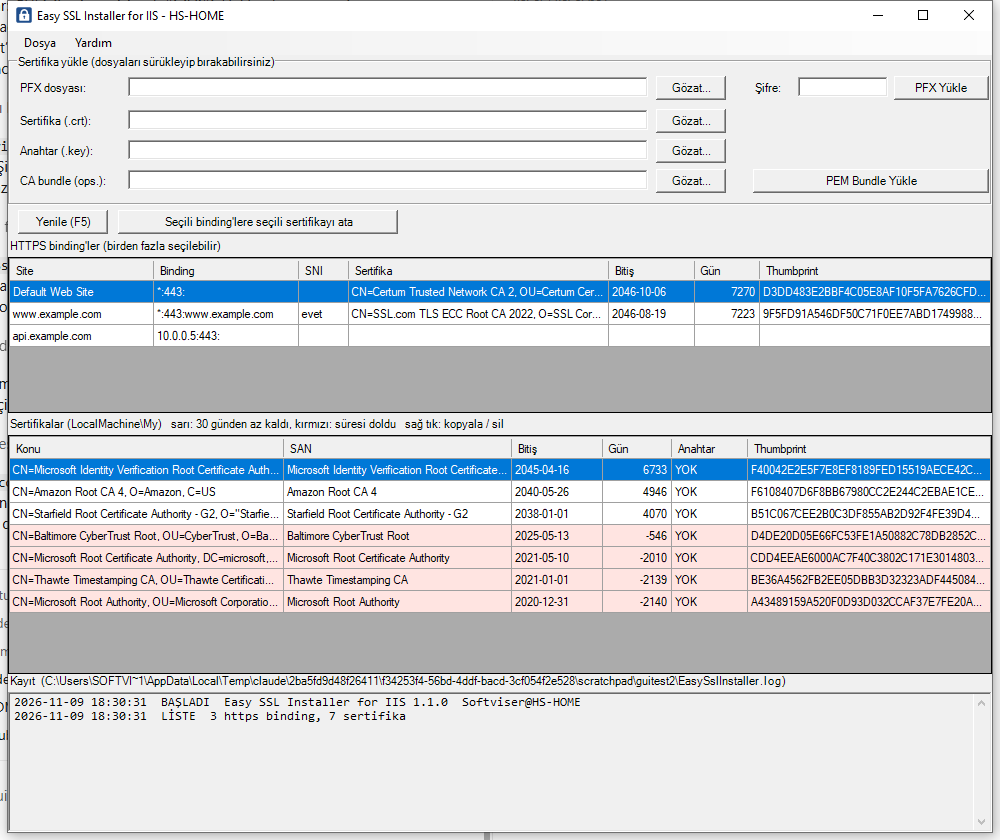
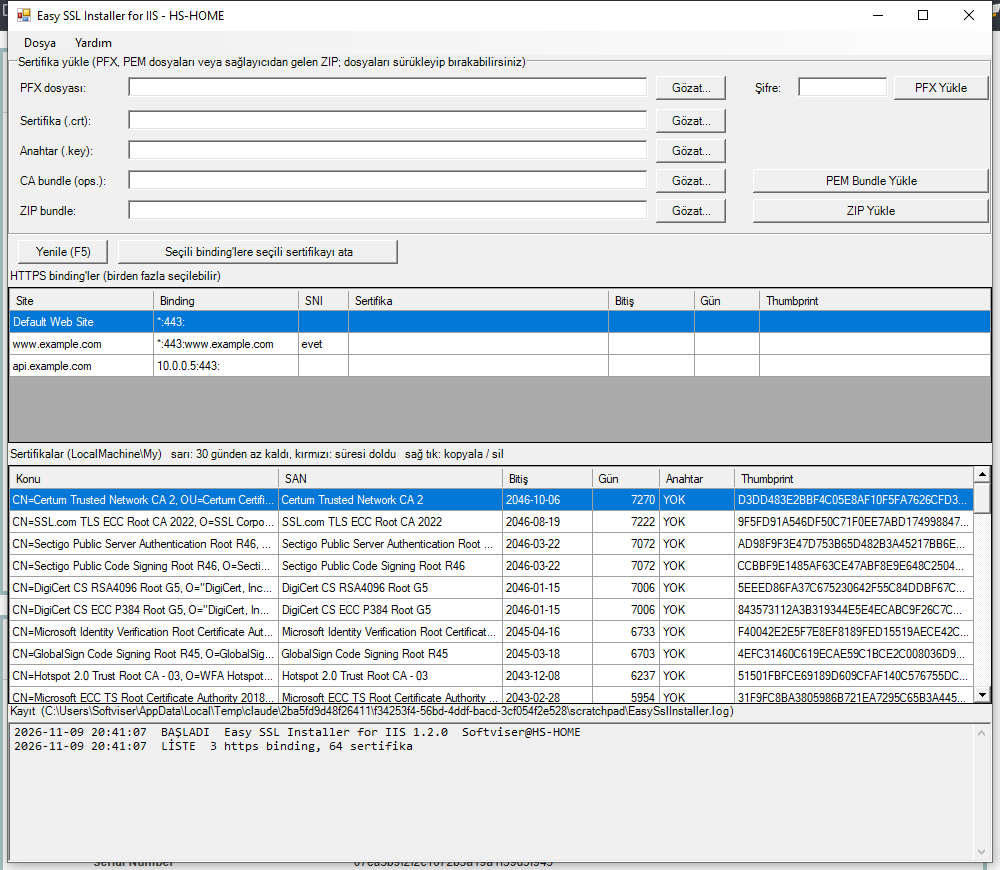
1.2.0: ZIP bundle import and automatic binding assignment
- Import the ZIP a certificate provider sends: uses the PFX inside if present,
  otherwise detects the server certificate, private key and CA files by content.
  Falls back to the key file field when the ZIP carries no key.
- After every import, find bindings matching the new certificate (SAN host
  names, one-level wildcards, or bindings still using an older certificate for
  the same names), list them and assign on one confirmation.
- Load panel gets a ZIP row; About text and README updated.

diff --git a/Host.cs b/Host.cs
@@ -12,8 +12,8 @@ using System.Management.Automation.Runspaces;
 [assembly: AssemblyDescription("Install SSL certificates and update HTTPS bindings on IIS")]
 [assembly: AssemblyCompany("Softviser Yazılım")]
 [assembly: AssemblyCopyright("Copyright (c) 2026 Softviser Yazılım. MIT License.")]
-[assembly: AssemblyVersion("1.1.0.0")]
-[assembly: AssemblyFileVersion("1.1.0.0")]
+[assembly: AssemblyVersion("1.2.0.0")]
+[assembly: AssemblyFileVersion("1.2.0.0")]
 
 static class Program
 {

diff --git a/README.md b/README.md
@@ -15,8 +15,15 @@ self-contained `EasySslInstaller.exe`. Works on any Windows or Windows Server wi
 - Imports a PEM bundle: certificate (.crt) + private key (.key) + optional CA bundle. The conversion to PFX is done
   with Windows' own `certutil`, so OpenSSL is not needed. The CA bundle goes into the Intermediate Certification
   Authorities store.
-- Assigns the selected certificate to one or more selected bindings. For a renewal: select every binding that uses the
-  old certificate, select the new one, assign.
+- Imports the ZIP file a certificate provider sends as is. It picks the PFX inside if there is one (password from the
+  password box), otherwise it tells the server certificate, the private key and the CA files apart by their content
+  (Sectigo/Comodo, GoDaddy, ZeroSSL and Let's Encrypt style layouts). If the ZIP has no key, the key file given in the
+  "Anahtar (.key)" field is used.
+- After every import it looks for bindings that match the new certificate: host names found in the certificate's SAN
+  list (wildcards match one level), or bindings that still use an older certificate issued for the same names. It
+  lists them and, after one confirmation, assigns the new certificate to all of them.
+- Assigns the selected certificate to one or more selected bindings by hand. For a renewal: select every binding that
+  uses the old certificate, select the new one, assign.
 - Right-click a certificate to copy its thumbprint or delete it (refused while a binding still uses it).
 - Logs every action (imports, conversions, CA store additions, binding changes with old and new thumbprint, errors)
   to the panel at the bottom and to `EasySslInstaller.log` next to the executable.
@@ -56,8 +63,12 @@ binding'leri yeni sertifikaya geçiren küçük bir araç. Kurulum yok; tek bir 
 `EasySslInstaller.exe`.
 
 - PFX veya PEM bundle (crt + key + ca-bundle) yükler. PEM dönüşümü `certutil` ile yapılır, OpenSSL gerekmez.
+- Sağlayıcıdan gelen ZIP'i olduğu gibi yükler: içinde PFX varsa onu, yoksa sunucu sertifikası, anahtar ve CA
+  dosyalarını içeriğinden tanıyarak alır. ZIP'te anahtar yoksa "Anahtar (.key)" alanındaki dosya kullanılır.
+- Her yüklemeden sonra yeni sertifikaya uyan binding'leri bulur (SAN'daki alan adları ya da aynı alan adları için
+  verilmiş eski sertifikayı kullanan binding'ler), listeler ve tek onayla hepsine atar.
 - Üstte binding'ler, altta sertifikalar; 30 günden az kalanlar sarı, süresi dolanlar kırmızı.
-- Birden fazla binding seçip tek seferde yeni sertifikayı atayabilirsiniz.
+- Birden fazla binding seçip tek seferde yeni sertifikayı elle de atayabilirsiniz.
 - Sağ tık: thumbprint kopyala, sertifikayı sil (bir binding kullanıyorsa silmez).
 - Her işlem alttaki kayıt paneline ve exe'nin yanındaki `EasySslInstaller.log` dosyasına yazılır.
 
